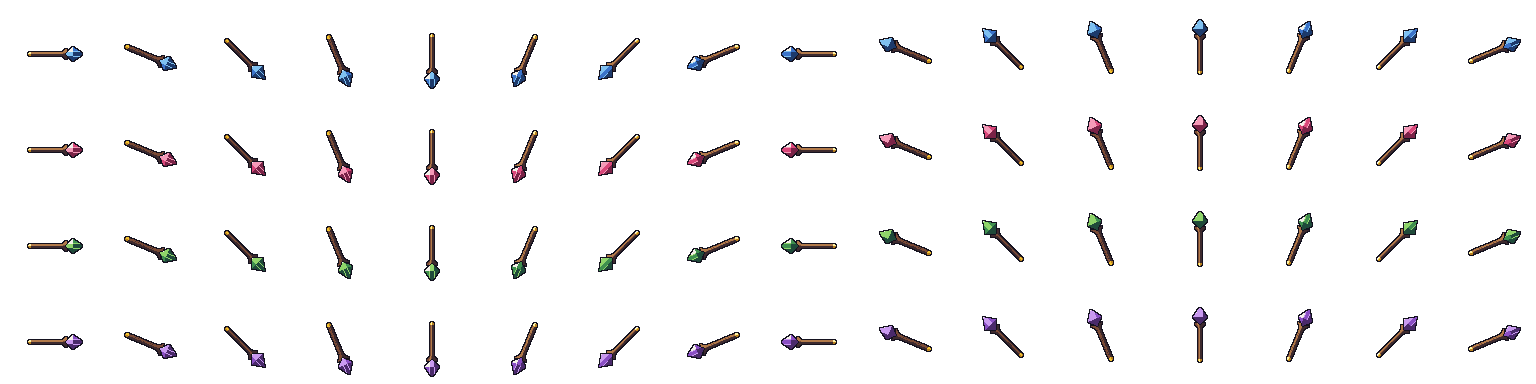
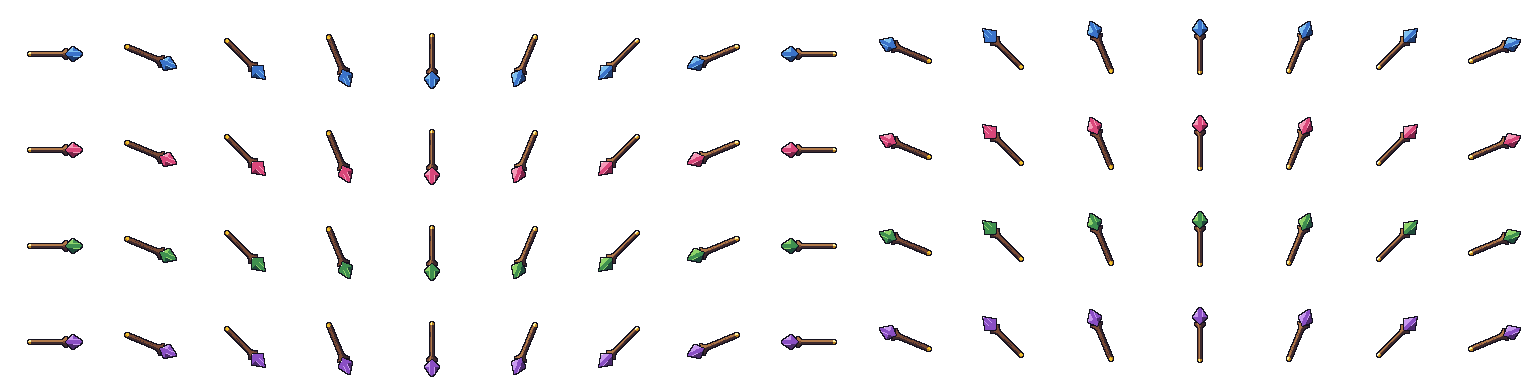
ART1 (1/2): the second review's fixes: the base shade covers the heads, small glints, no Stone shadow
The heads' facets and the moon's ball lean less so the base shade covers most of each head in
every direction, the bottom-right edge a shade down; glints only where _glint puts one; craters
drawn as dishes; a dark seam where gold meets the head; unknown heads refused; the curl's side
rule shared. The detail pass keeps Stone at its base (Stone shadow is the floor's) and has no
folds (none showed; the prompts no longer claim them). Stronger tests: every frame and ramp,
the outline closed eight ways, the base shade most; a staff with a face of its own still worn.

Claude-Session: https://claude.ai/code/session_01Y5yFoBqZXjU1hZsPaXvHir

diff --git a/tools/head_art.py b/tools/head_art.py
@@ -19,8 +19,8 @@ Every shaft is Wood shaded as a round rod, with grain lines along it; gold is Sp
 metal, with a glint. Shapes are worked out at each art pixel's middle in world units (the 48x48
 sheet's layout, grip (24, 27), times DETAIL); a pixel's shade is its surface normal against the
 light from the top-left (three shades a material, the light shade's brightest spots a glint); the
-outline round the outside is one art pixel. Each head keeps its 1x silhouette and size, so its
-`tip` and `butt` hold; the star and the cog stay upright whichever way the staff points, the
+outline round the outside is one art pixel. Each head keeps its 1x shape family and about its size,
+so its `tip` and `butt` hold; the star and the cog stay upright whichever way the staff points, the
 crystal and the moon turn with it (as the 1x sheets).
 
     tools/head_art.py           # writes content/wizard/staffs/<head>/head@2x.png
@@ -54,7 +54,7 @@ _N = math.sqrt(sum(c * c for c in _L))
 LIGHT = (_L[0] / _N, _L[1] / _N, _L[2] / _N)
 # n . LIGHT below SHADOW_BELOW is the shadow shade, above LIGHT_ABOVE the light, above GLINT_ABOVE
 # a glint (on the materials that shine).
-SHADOW_BELOW = 0.45
+SHADOW_BELOW = 0.28
 LIGHT_ABOVE = 0.76
 GLINT_ABOVE = 0.965
 
@@ -91,7 +91,7 @@ class Frame:
         self.way = (math.cos(angle), math.sin(angle))
         # Across: the side facing up (upright, the left), as the curl's.
         across = (self.way[1], -self.way[0])
-        if across[1] > 1e-6 or (abs(across[1]) <= 1e-6 and across[0] > 0.0):
+        if across[1] > 1e-6:
             across = (-across[0], -across[1])
         self.across = across
 
@@ -178,14 +178,14 @@ def crystal(frame: Frame, wx: float, wy: float) -> Hit | None:
             upper = u >= mid
             sv = abs(side) / wide
             # Three facets a side: the face (|v| small) and the two flanks.
-            nu = 0.55 if upper else -0.75
+            nu = 0.5 if upper else -0.35
             if sv < 0.28:
                 nv = 0.0
                 part = 10 if upper else 11
             else:
-                nv = 0.9 if side > 0 else -0.9
+                nv = 1.2 if side > 0 else -1.2
                 part = (12 if side > 0 else 13) + (0 if upper else 2)
-            normal = frame.to_screen(nu, nv, 1.0)
+            normal = frame.to_screen(nu, nv, 2.0)
             # The ridges between facets catch the light: a thin bright line down the face's edges.
             if 0.22 < sv < 0.34 and upper:
                 return (M_HEAD, normal, part, "ridge")
@@ -208,14 +208,17 @@ def moon(frame: Frame, wx: float, wy: float) -> Hit | None:
     if r <= outer and math.hypot(du - push, dv) > inner:
         # Shaded as the ball the crescent is cut from.
         z = math.sqrt(max(0.0, 1.0 - (r / outer) ** 2))
-        normal = frame.to_screen(du / outer, dv / outer, z + 0.1)
+        normal = frame.to_screen(du / outer * 0.6, dv / outer * 0.6, z + 0.55)
         # Craters: shallow dishes, their normals turned in (lit on the far side).
         for cu, cv, cr in ((-1.9, 2.2, 0.9), (-3.0, -0.6, 0.75), (-1.2, -2.6, 0.7)):
             d = math.hypot(du - cu, dv - cv)
             if d <= cr:
                 k = d / cr
-                n = frame.to_screen(-(du - cu) / cr * 1.2, -(dv - cv) / cr * 1.2, 0.5 + 0.3 * (1 - k))
-                return (M_HEAD, n, 21, RAMPS_SHADE[min(_shade_of(n), 1)])
+                # A dish: its wall toward the light in shadow, the far wall's rim lit.
+                to = frame.to_screen(du - cu, dv - cv, 0.0)
+                toward = to[0] * LIGHT[0] + to[1] * LIGHT[1]
+                shade = 0 if toward > 0.1 else (2 if k > 0.6 and toward < -0.3 else 1)
+                return (M_HEAD, normal, 21, RAMPS_SHADE[shade])
         # The cut edge, facing the tip, a shade down: the crescent's inner rim.
         if math.hypot(du - push, dv) <= inner + 0.55:
             return (M_HEAD, frame.to_screen(-(du - push), -dv, 1.4), 22, None)
@@ -244,10 +247,10 @@ def star(frame: Frame, wx: float, wy: float) -> Hit | None:
         sx = 1.0 if dx > 0 else -1.0
         sy = 1.0 if dy > 0 else -1.0
         if ax >= ay:
-            normal = _unit(sx * 0.35, sy * 0.95, 1.0)
+            normal = _unit(sx * 0.2, sy * 0.5, 1.0)
             part = 32 + (0 if sy < 0 else 1) + (0 if sx < 0 else 2)
         else:
-            normal = _unit(sx * 0.95, sy * 0.35, 1.0)
+            normal = _unit(sx * 0.5, sy * 0.2, 1.0)
             part = 36 + (0 if sy < 0 else 1) + (0 if sx < 0 else 2)
         return (M_HEAD, normal, part, None)
     along, side = frame.local(wx, wy)
@@ -317,8 +320,8 @@ def _colour(hit: Hit, ramp: int) -> str:
     if material == M_HEAD:
         if override == "ridge":
             return RAMPS[ramp][2]
-        if level > GLINT_ABOVE:
-            return BONE[2]
+        # No glint from the shading on the head: a bevel facing the light would be a white arc;
+        # `_glint` puts one small one on it.
         return RAMPS[ramp][shade]
     # A hole's lit far wall.
     return RAMPS[ramp][0]
@@ -339,15 +342,25 @@ def head_frame(name: str, direction: int, ramp: int) -> Canvas:
             if hit is None:
                 continue
             canvas.pixels[py][px] = _colour(hit, ramp)
-            # Where the head sits on the wood (or the wood on the gold), the lower part takes a
-            # dark seam, so the parts read apart.
-            if hit[0] == M_WOOD:
+            # Where the head sits on the wood or the gold, the lower part takes a dark seam, so the
+            # parts read apart.
+            if hit[0] in (M_WOOD, M_GOLD):
                 for dx, dy in ((1, 0), (-1, 0), (0, 1), (0, -1)):
                     nx, ny = px + dx, py + dy
                     if 0 <= nx < size and 0 <= ny < size:
                         other = hits[ny][nx]
                         if other is not None and other[0] == M_HEAD:
                             canvas.pixels[py][px] = OUTLINE
+    # The head's edge facing away from the light (bottom right) a shade down where the shading
+    # left it the base, so even a head turned full to the light has its shadow edge.
+    for py in range(size - 1):
+        for px in range(size - 1):
+            hit = hits[py][px]
+            if hit is None or hit[0] != M_HEAD or canvas.pixels[py][px] != RAMPS[ramp][1]:
+                continue
+            right, below = hits[py][px + 1], hits[py + 1][px]
+            if (right is None or right[0] != M_HEAD) and (below is None or below[0] != M_HEAD):
+                canvas.pixels[py][px] = RAMPS[ramp][0]
     _glint(canvas, hits, ramp)
     staff_art._outline(canvas, [[hits[y][x] is not None for x in range(size)] for y in range(size)])
     return canvas
@@ -392,6 +405,9 @@ def main(argv: list[str] | None = None) -> int:
     parser.add_argument("--check", action="store_true", help="write nothing; fail when a sheet differs")
     parser.add_argument("heads", nargs="*", help="only these heads (default: all)")
     args = parser.parse_args(argv)
+    unknown = [name for name in args.heads if name not in HEADS]
+    if unknown:
+        parser.error(f"no such head: {', '.join(unknown)} (the heads: {', '.join(HEADS)})")
     status = 0
     for path, draw in files().items():
         if args.heads and path.parent.name not in args.heads:

diff --git a/tools/test_head_art.py b/tools/test_head_art.py
@@ -19,36 +19,63 @@ class HeadArtTest(unittest.TestCase):
     def test_the_sheets_are_what_the_rules_draw(self) -> None:
         self.assertEqual(head_art.main(["--check"]), 0, "run tools/head_art.py and commit its sheets")
 
-    def test_palette_only_and_the_player_colour_on_the_head_only(self) -> None:
-        palette = pixel_grid.palette()
+    def test_every_frame_palette_only_closed_and_clear_of_the_frame_edge(self) -> None:
+        palette = set(pixel_grid.palette())
         for name in head_art.HEADS:
             for ramp in range(4):
-                frame = head_art.head_frame(name, UP, ramp)
-                colours = {c for row in frame.pixels for c in row} - {None}
-                self.assertTrue(colours <= set(palette), f"{name}: palette colours only")
-                others = {c for r, shades in enumerate(RAMPS) if r != ramp for c in shades}
-                self.assertFalse(colours & others, f"{name}, ramp {ramp}: no other player's colour")
-                self.assertTrue(colours & set(RAMPS[ramp]), f"{name}, ramp {ramp}: its own colour on the head")
+                for direction in range(head_art.DIRECTIONS):
+                    p = head_art.head_frame(name, direction, ramp).pixels
+                    where = f"{name}, direction {direction}, ramp {ramp}"
+                    for y in range(SIZE):
+                        for x in range(SIZE):
+                            colour = p[y][x]
+                            if colour is None:
+                                continue
+                            self.assertIn(colour, palette, where)
+                            self.assertTrue(0 < x < SIZE - 1 and 0 < y < SIZE - 1, f"{where}: clear of the frame's edge")
+                            if colour == OUTLINE:
+                                continue
+                            # Closed eight ways: every drawn pixel's neighbours are drawn.
+                            for dy in (-1, 0, 1):
+                                for dx in (-1, 0, 1):
+                                    self.assertIsNotNone(p[y + dy][x + dx], f"{where}: ({x}, {y}) closed in")
 
-    def test_each_material_shows_three_shades_and_a_glint(self) -> None:
+    def test_the_player_colour_is_on_the_head_only(self) -> None:
         for name in head_art.HEADS:
-            colours = {c for row in head_art.head_frame(name, 14, 0).pixels for c in row}
+            for direction in range(head_art.DIRECTIONS):
+                frame = head_art.Frame(direction)
+                draw = head_art.HEADS[name]
+                for ramp in range(4):
+                    p = head_art.head_frame(name, direction, ramp).pixels
+                    others = {c for r, shades in enumerate(RAMPS) if r != ramp for c in shades}
+                    for y in range(SIZE):
+                        for x in range(SIZE):
+                            if p[y][x] in others:
+                                self.fail(f"{name}: another player's colour")
+                            if p[y][x] in RAMPS[ramp]:
+                                hit = draw(frame, (x + 0.5) / head_art.DETAIL, (y + 0.5) / head_art.DETAIL)
+                                self.assertIn(hit[0] if hit else None, (head_art.M_HEAD, head_art.M_DARK), f"{name}: ramp colour off the head at ({x}, {y})")
+
+    def test_the_base_shade_covers_most_of_the_head(self) -> None:
+        """docs/STYLE.md, "Light and shading": the base shade most, the light and the shadow its edges."""
+        for name in head_art.HEADS:
+            for direction in range(head_art.DIRECTIONS):
+                pixels = [c for row in head_art.head_frame(name, direction, 0).pixels for c in row]
+                shadow, base, light = (pixels.count(c) for c in RAMPS[0])
+                self.assertGreaterEqual(base, max(shadow, light), f"{name}, direction {direction}: {shadow}/{base}/{light}")
+
+    def test_each_material_shows_three_shades_and_a_small_glint(self) -> None:
+        for name in head_art.HEADS:
+            pixels = [c for row in head_art.head_frame(name, 14, 0).pixels for c in row]
+            colours = set(pixels)
             self.assertTrue(set(WOOD) <= colours, f"{name}: the wood in its three shades")
             self.assertTrue(set(RAMPS[0]) <= colours, f"{name}: the head in its three shades")
             self.assertTrue(colours & set(SPARK), f"{name}: gold")
-            self.assertIn(BONE[2], colours, f"{name}: a glint")
+            self.assertTrue(1 <= pixels.count(BONE[2]) <= 8, f"{name}: a glint, a spot not a blob")
 
-    def test_the_outline_is_closed_and_one_art_pixel(self) -> None:
-        for name in head_art.HEADS:
-            frame = head_art.head_frame(name, 2, 1)
-            p = frame.pixels
-            for y in range(SIZE):
-                for x in range(SIZE):
-                    if p[y][x] is None or p[y][x] == OUTLINE:
-                        continue
-                    for dx, dy in ((1, 0), (-1, 0), (0, 1), (0, -1)):
-                        nx, ny = x + dx, y + dy
-                        self.assertTrue(0 <= nx < SIZE and 0 <= ny < SIZE and p[ny][nx] is not None, f"{name}: ({x}, {y}) is closed in")
+    def test_an_unknown_head_is_refused(self) -> None:
+        with self.assertRaises(SystemExit):
+            head_art.main(["--check", "nosuch"])
 
     def test_the_grip_is_on_the_shaft_and_the_head_keeps_its_reach(self) -> None:
         gx, gy = int(head_art.GRIP[0] * head_art.DETAIL), int(head_art.GRIP[1] * head_art.DETAIL)

diff --git a/tools/redraw_2x.py b/tools/redraw_2x.py
@@ -18,7 +18,7 @@ its palette colours and its silhouette, and is drawn finer in two ways:
     tools/redraw_2x.py IN.svg OUT@2x.svg   # an SVG of rects, one a run along a row
     tools/redraw_2x.py IN.svg OUT@2x.png   # an indexed PNG, for a sheet whose rects would pass 1 MB
     tools/redraw_2x.py --blocky IN OUT     # no smoothing: small round shapes (a small face)
-    tools/redraw_2x.py --detail IN OUT     # and new detail: one-pixel edge light and shadow, folds
+    tools/redraw_2x.py --detail IN OUT     # and new detail: one-pixel edge light and shadow
 
 Standard library only. Delete the 1x file after by hand (renaming its `.import`, art/README.md step
 2), so the 2x file is the art from then on: redraw it by hand or with a generator, not by running
@@ -167,17 +167,16 @@ def materials() -> dict[str, tuple[str, int]]:
     return out
 
 
-# Cloth: the materials a robe is made of, which take folds.
-CLOTH = ("Stone",)
-FOLD_EVERY = 6
+# Materials a character never shades down to their shadow (docs/STYLE.md, "Readability": Stone
+# shadow is the floor's), so their edge on the bottom right stays the base.
+NO_SHADOW = ("Stone",)
 
 
 def detail(src: Canvas) -> Canvas:
     """New detail at the 2x picture's own pixels (the owner, 2026-11-26: real detail, not a 2x):
     every part's base shade gets a one-art-pixel lit edge where it meets something else on its top
     or left and a shaded one on its bottom or right (a rounder form than the 1x shading's two-pixel
-    bands), and cloth falls in folds: a shadow crease every FOLD_EVERY art pixels down its lower
-    part, lit on its left. Decided from the picture as it was, all at once."""
+    bands; Stone keeps its base there, NO_SHADOW). Decided from the picture as it was, all at once."""
     shades = materials()
     p = src.pixels
     out = Canvas(src.width, src.height)
@@ -204,12 +203,8 @@ def detail(src: Canvas) -> Canvas:
                 continue
             if material(x - 1, y) != name or material(x, y - 1) != name:
                 out.pixels[y][x] = recolour(colour, 2)
-            elif material(x + 1, y) != name or material(x, y + 1) != name:
+            elif name not in NO_SHADOW and (material(x + 1, y) != name or material(x, y + 1) != name):
                 out.pixels[y][x] = recolour(colour, 0)
-            elif name in CLOTH and x % FOLD_EVERY == 3 and material(x, y - 3) == name and material(x, y - 6) == name:
-                out.pixels[y][x] = recolour(colour, 0)
-            elif name in CLOTH and x % FOLD_EVERY == 2 and material(x + 1, y - 3) == name and material(x + 1, y - 6) == name:
-                out.pixels[y][x] = recolour(colour, 2)
     return out
 
 
@@ -225,7 +220,7 @@ def main(argv: list[str] | None = None) -> int:
     parser.add_argument("source", type=Path)
     parser.add_argument("target", type=Path)
     parser.add_argument("--blocky", action="store_true", help="double without smoothing (small round shapes)")
-    parser.add_argument("--detail", action="store_true", help="add detail at the finer pixels: edge light and shadow, cloth folds")
+    parser.add_argument("--detail", action="store_true", help="add detail at the finer pixels: one-pixel edge light and shadow")
     args = parser.parse_args(argv)
     if "@2x" not in args.target.stem:
         parser.error("the target's name ends in @2x (ArtDetail)")

diff --git a/tools/test_redraw_2x.py b/tools/test_redraw_2x.py
@@ -82,20 +82,34 @@ class Redraw2xTest(unittest.TestCase):
         with self.assertRaises(ValueError):
             redraw_2x.read_svg('<svg width="2" height="2"><rect x="0" y="0" width="1" height="1" fill="#14121f" opacity="0.5"/></svg>')
 
-    def test_the_detail_pass_lights_and_shades_edges_and_folds_cloth(self) -> None:
-        stone = ("#2b2840", "#4a4663", "#7a7694")
-        rows = ["#" * 14] + ["#" + "s" * 12 + "#" for _ in range(12)] + ["#" * 14]
-        colours = {"#": OUTLINE, "s": stone[1]}
+    def _block(self, base: str) -> "redraw_2x.Canvas":
+        rows = ["#" * 8] + ["#" + "s" * 6 + "#" for _ in range(6)] + ["#" * 8]
+        colours = {"#": OUTLINE, "s": base}
         rects = "".join(f'<rect x="{x}" y="{y}" width="1" height="1" fill="{colours[c]}"/>' for y, row in enumerate(rows) for x, c in enumerate(row))
-        src = redraw_2x.read_svg(f'<svg width="14" height="14">{rects}</svg>')
-        out = redraw_2x.redraw(src, smooth=False, detailed=True)
-        inside = [(x, y) for y in range(out.height) for x in range(out.width) if out.pixels[y][x] in stone]
+        return redraw_2x.read_svg(f'<svg width="8" height="8">{rects}</svg>')
+
+    def test_the_detail_pass_lights_and_shades_the_edges_of_the_base_only(self) -> None:
+        wood = ("#3d2a2e", "#7a4a35", "#b27a4a")
+        plain = redraw_2x.redraw(self._block(wood[1]), smooth=False)
+        out = redraw_2x.redraw(self._block(wood[1]), smooth=False, detailed=True)
+        inside = [(x, y) for y in range(out.height) for x in range(out.width) if out.pixels[y][x] in wood]
         top_left = min(inside, key=lambda p: p[0] + p[1])
         bottom_right = max(inside, key=lambda p: p[0] + p[1])
-        self.assertEqual(out.pixels[top_left[1]][top_left[0]], stone[2], "the top-left edge lit")
-        self.assertEqual(out.pixels[bottom_right[1]][bottom_right[0]], stone[0], "the bottom-right edge shaded")
-        folds = [x for x in range(out.width) if out.pixels[out.height - 6][x] == stone[0]]
-        self.assertGreaterEqual(len(folds), 3, "the cloth's lower part falls in folds")
+        self.assertEqual(out.pixels[top_left[1]][top_left[0]], wood[2], "the top-left edge lit")
+        self.assertEqual(out.pixels[bottom_right[1]][bottom_right[0]], wood[0], "the bottom-right edge shaded")
+        middle = (out.width // 2, out.height // 2)
+        self.assertEqual(out.pixels[middle[1]][middle[0]], wood[1], "the middle stays the base")
+        for y in range(out.height):
+            for x in range(out.width):
+                if plain.pixels[y][x] != wood[1]:
+                    self.assertEqual(out.pixels[y][x], plain.pixels[y][x], "only the base shade changes")
+
+    def test_stone_is_never_shaded_down_to_its_shadow(self) -> None:
+        stone = ("#2b2840", "#4a4663", "#7a7694")
+        out = redraw_2x.redraw(self._block(stone[1]), smooth=False, detailed=True)
+        colours = {c for row in out.pixels for c in row}
+        self.assertNotIn(stone[0], colours, "Stone shadow is the floor's (docs/STYLE.md, Readability)")
+        self.assertIn(stone[2], colours, "its lit edge all the same")
 
     def test_a_target_not_named_at_2x_is_refused(self) -> None:
         with self.assertRaises(SystemExit):

diff --git a/tools/staff_art.py b/tools/staff_art.py
@@ -18,7 +18,7 @@ its rects would be over the 1 MB limit):
 - `art/kit/golden_staff@2x.svg`: the golden example at 2x, the three layered as the game does.
 
     tools/staff_art.py           # writes the head sheet and the golden example
-    tools/staff_art.py --check   # fails when an SVG differs from what the rules draw
+    tools/staff_art.py --check   # fails when a file differs from what the rules draw
 
 Shapes are worked out at each pixel's middle, in world units times DETAIL; a shape's light and
 shadow come from its edges facing the top left and the bottom right; every outline is one art

diff --git a/tools/README.md b/tools/README.md
@@ -2,7 +2,7 @@
 
 ## Purpose
 
-Scripts that contributors and Claude run on their own checkout. `tools/check.sh` runs the same hard rules as the `rules` check in CI on your changes, so you can fix problems before you open a PR. `tools/atlas.py <out>` writes the Spell atlas data (`atlas.json`: one entry per component, combo and reaction, read from `content/`; `build.sh --clips` calls it, and `ci/smbot/clips.py` has the format); its tests are `tools/test_atlas.py` (`python3 -m unittest discover -s tools`). `tools/staff_art.py` draws the curl staff at 2x detail (ART0, the pilot of the 64x64 redraw; art/README.md, "Redrawing a sprite at 64x64"): its head sheet (16 drawn directions by 4 ramps, 96x96 frames), the Optimist's eyes and brows (32x16 frames, drawn into the shared face by `face_art.py`) and the golden example `art/kit/golden_staff@2x.svg`, from shape rules (palette colours, read from docs/STYLE.md; the SVGs rects only, the head sheet a PNG, which as rects would be over the 1 MB limit); `--check` writes nothing and fails when an SVG differs from what the rules draw; its tests are `tools/test_staff_art.py`. `tools/face_art.py` draws the shared face sheets at 2x detail the same way (ART1: `art/faces/eyes@2x.svg`, a row a face style, and `brows@2x.svg`, 32x16 frames; the Optimist's row is staff_art.py's), with the same `--check`; `tools/head_art.py` draws the other staff heads at 2x detail from shape and light rules (crystal facets, the moon's craters, the star's bevels, the cog's rim, holes and hub, wood grain and gold glints; ART1), with the same `--check`; `tools/redraw_2x.py IN.svg OUT@2x.(svg|png)` redraws a 1x sheet of rects at 2x detail once, its layout and silhouette kept (the intro's wizard): its diagonals smoothed by the EPX rule and its outside outline one art pixel (`--blocky`: doubled without smoothing, for small round shapes; `--detail`: new detail at the finer pixels, one-pixel edge light and shadow and cloth folds), after which the 2x file is the art. Their tests are `tools/test_face_art.py`, `tools/test_head_art.py` and `tools/test_redraw_2x.py`. `tools/pixel_grid.py <name>.grid.json...` draws pixel art from a grid of characters (props W7, docs/milestones/props.md): a grid file, kept beside its art, names a palette colour for each character (docs/STYLE.md's palette, read from there) and the mote-point characters (`*` by default), and it writes `<name>.svg` (rects only, one a run of a colour along a row, as tests/core/test_svg_art.gd wants) and, when the grid has mote points, `<name>_motes.svg` (the points alone, a mask for a prop's look to give off motes from), so a prop's art and where its motes come from are one source; `--check` writes nothing and fails when an SVG differs from its grid. Its tests are `tools/test_pixel_grid.py`, which also checks every grid in the repository against its SVGs. `tools/ptest.sh [jobs] [path-regex]` runs the Godot unit tests in parallel (one import, a user folder per test), about a minute for the whole suite; it needs the pinned Godot that `ci/build/build.sh --quick` downloads. It prints each failed file with the lines of its log that say why (`tools/ptest_failures.py`: the runner's note on a file that failed only in its batch, with a crash's or a timeout's exit code, the failed checks and the engine's errors), since a cloud session's logs go with its machine; its tests are `tools/test_ptest_failures.py`. `tools/platform_hashes.py run` is online-ready's first look across platforms (N2b, docs/milestones/online-ready.md): it exports Linux Test, Windows Test and Web Test into `build/`, plays the same recorded runs in each (`--replay-hashes`, tests/platforms/replay_hashes_runner.gd: Linux headless, Windows through WSL's interop, the web in headless Chromium through `smbot.websmoke`) and names the first tick, area and members where a platform parts from Linux; `play NAME --build DIR` plays one export already built (`linux`, `linux-gdscript`, `windows` or `web`; the daily run's `platforms` job plays each on its own runner, Windows on a Windows runner) and `compare LOG...` compares saved logs with the first, giving each parting area's two hashes. A run also says what its export was built with (`REPLAY BUILD`): an export whose WebRTC extension is missing or did not load is reported on its own, apart from the hashes (the one check of the Windows build's; `run` sets the extension up with `ci/build/webrtc.sh` before it exports). It writes only under `build/` (and a copy of the Windows export under %TEMP%), needs one `build.sh --quick` and, for Windows, WSL; its tests are `tools/test_platform_hashes.py`. `tools/online_pair.sh [ticks]` plays the real game twice on this machine (netcode spike S4): two headless processes go through Host and Join over WebRTC with no STUN server, their codes handed over as files under a `user://` of their own (`build/logs/online/`), play the hub with both seats scripted (`tests/net/online_runner.gd`), and it passes when every hash check agreed; about fifteen seconds for the default 600 ticks. `tools/online_signal.sh` runs the room server's own tests (`node --test` in `server/signal/`), then starts the server on this machine (`local.js`, Node alone) and plays the game's real handshake through it; `tools/online_room.sh [ticks]` plays the real game twice through a room on that server (online lobby L2: Play, the altar, the code, two players a machine, the stone, a run) and passes when every hash check agreed. `tools/online_party.sh [ticks]` does the same with four processes, a host and three guest machines of one player each (L3). All three need Node 22 or later. `tools/ground_shape.py <shape file>...` draws a room's ground from its shape file (hub rework HR2, docs/milestones/hub-rework.md; content/rooms/README.md, "A room's ground from a shape"): the room's `<room>_ground.tscn` beside the shape and its art in `art/grounds/<room>/`, from the shape's outlines or frame, pits, cracks and areas (a material's colours drawn by `ground_materials.py`, a wall's top and face by `ground_walls.py`, both used only by it; crypt rework CR2, docs/milestones/crypt-rework.md), its edge style (content/edges) and ground materials (content/grounds), the same files every time; `--check` writes nothing and fails when a room's ground is older than what it is drawn from. Standard library only (it writes its PNGs itself); about ten seconds for the hub. Its tests are `tools/test_ground_shape.py`, which also checks every shape file's ground is up to date (drawing every room again, in parallel, a process a core: about 30 seconds on 4 cores; keep the generator's hot loops cheap, as the CI job that runs these tests has 5 minutes). **The game draws the same ground** as a room is laid out (connected biomes CB4): `gameplay/feel/ground/` is this generator's drawing in GDScript, line by line, and `native/src/ground_kernel.cpp` its native twin, so a change to `ground_shape.py`, `ground_materials.py` or `ground_walls.py` is made in both in the same PR (a speed-up that draws the very same bytes, such as the Python's caches, need not be); `tests/gameplay/feel/test_ground_drawing.gd` fails while the game's drawing of a room is not its baked art to the pixel. A length is `length_of` (the square root of the sum of the squares), never `math.hypot` or `math.dist`, which round otherwise now and then.
+Scripts that contributors and Claude run on their own checkout. `tools/check.sh` runs the same hard rules as the `rules` check in CI on your changes, so you can fix problems before you open a PR. `tools/atlas.py <out>` writes the Spell atlas data (`atlas.json`: one entry per component, combo and reaction, read from `content/`; `build.sh --clips` calls it, and `ci/smbot/clips.py` has the format); its tests are `tools/test_atlas.py` (`python3 -m unittest discover -s tools`). `tools/staff_art.py` draws the curl staff at 2x detail (ART0, the pilot of the 64x64 redraw; art/README.md, "Redrawing a sprite at 64x64"): its head sheet (16 drawn directions by 4 ramps, 96x96 frames), the Optimist's eyes and brows (32x16 frames, drawn into the shared face by `face_art.py`) and the golden example `art/kit/golden_staff@2x.svg`, from shape rules (palette colours, read from docs/STYLE.md; the SVGs rects only, the head sheet a PNG, which as rects would be over the 1 MB limit); `--check` writes nothing and fails when a file differs from what the rules draw; its tests are `tools/test_staff_art.py`. `tools/face_art.py` draws the shared face sheets at 2x detail the same way (ART1: `art/faces/eyes@2x.svg`, a row a face style, and `brows@2x.svg`, 32x16 frames; the Optimist's row is staff_art.py's), with the same `--check`; `tools/head_art.py` draws the other staff heads at 2x detail from shape and light rules (crystal facets, the moon's craters, the star's bevels, the cog's rim, holes and hub, wood grain and gold glints; ART1), with the same `--check`; `tools/redraw_2x.py IN.svg OUT@2x.(svg|png)` redraws a 1x sheet of rects at 2x detail once, its layout and silhouette kept (the intro's wizard): its diagonals smoothed by the EPX rule and its outside outline one art pixel (`--blocky`: doubled without smoothing, for small round shapes; `--detail`: new detail at the finer pixels, one-pixel edge light and shadow), after which the 2x file is the art. Their tests are `tools/test_face_art.py`, `tools/test_head_art.py` and `tools/test_redraw_2x.py`. `tools/pixel_grid.py <name>.grid.json...` draws pixel art from a grid of characters (props W7, docs/milestones/props.md): a grid file, kept beside its art, names a palette colour for each character (docs/STYLE.md's palette, read from there) and the mote-point characters (`*` by default), and it writes `<name>.svg` (rects only, one a run of a colour along a row, as tests/core/test_svg_art.gd wants) and, when the grid has mote points, `<name>_motes.svg` (the points alone, a mask for a prop's look to give off motes from), so a prop's art and where its motes come from are one source; `--check` writes nothing and fails when an SVG differs from its grid. Its tests are `tools/test_pixel_grid.py`, which also checks every grid in the repository against its SVGs. `tools/ptest.sh [jobs] [path-regex]` runs the Godot unit tests in parallel (one import, a user folder per test), about a minute for the whole suite; it needs the pinned Godot that `ci/build/build.sh --quick` downloads. It prints each failed file with the lines of its log that say why (`tools/ptest_failures.py`: the runner's note on a file that failed only in its batch, with a crash's or a timeout's exit code, the failed checks and the engine's errors), since a cloud session's logs go with its machine; its tests are `tools/test_ptest_failures.py`. `tools/platform_hashes.py run` is online-ready's first look across platforms (N2b, docs/milestones/online-ready.md): it exports Linux Test, Windows Test and Web Test into `build/`, plays the same recorded runs in each (`--replay-hashes`, tests/platforms/replay_hashes_runner.gd: Linux headless, Windows through WSL's interop, the web in headless Chromium through `smbot.websmoke`) and names the first tick, area and members where a platform parts from Linux; `play NAME --build DIR` plays one export already built (`linux`, `linux-gdscript`, `windows` or `web`; the daily run's `platforms` job plays each on its own runner, Windows on a Windows runner) and `compare LOG...` compares saved logs with the first, giving each parting area's two hashes. A run also says what its export was built with (`REPLAY BUILD`): an export whose WebRTC extension is missing or did not load is reported on its own, apart from the hashes (the one check of the Windows build's; `run` sets the extension up with `ci/build/webrtc.sh` before it exports). It writes only under `build/` (and a copy of the Windows export under %TEMP%), needs one `build.sh --quick` and, for Windows, WSL; its tests are `tools/test_platform_hashes.py`. `tools/online_pair.sh [ticks]` plays the real game twice on this machine (netcode spike S4): two headless processes go through Host and Join over WebRTC with no STUN server, their codes handed over as files under a `user://` of their own (`build/logs/online/`), play the hub with both seats scripted (`tests/net/online_runner.gd`), and it passes when every hash check agreed; about fifteen seconds for the default 600 ticks. `tools/online_signal.sh` runs the room server's own tests (`node --test` in `server/signal/`), then starts the server on this machine (`local.js`, Node alone) and plays the game's real handshake through it; `tools/online_room.sh [ticks]` plays the real game twice through a room on that server (online lobby L2: Play, the altar, the code, two players a machine, the stone, a run) and passes when every hash check agreed. `tools/online_party.sh [ticks]` does the same with four processes, a host and three guest machines of one player each (L3). All three need Node 22 or later. `tools/ground_shape.py <shape file>...` draws a room's ground from its shape file (hub rework HR2, docs/milestones/hub-rework.md; content/rooms/README.md, "A room's ground from a shape"): the room's `<room>_ground.tscn` beside the shape and its art in `art/grounds/<room>/`, from the shape's outlines or frame, pits, cracks and areas (a material's colours drawn by `ground_materials.py`, a wall's top and face by `ground_walls.py`, both used only by it; crypt rework CR2, docs/milestones/crypt-rework.md), its edge style (content/edges) and ground materials (content/grounds), the same files every time; `--check` writes nothing and fails when a room's ground is older than what it is drawn from. Standard library only (it writes its PNGs itself); about ten seconds for the hub. Its tests are `tools/test_ground_shape.py`, which also checks every shape file's ground is up to date (drawing every room again, in parallel, a process a core: about 30 seconds on 4 cores; keep the generator's hot loops cheap, as the CI job that runs these tests has 5 minutes). **The game draws the same ground** as a room is laid out (connected biomes CB4): `gameplay/feel/ground/` is this generator's drawing in GDScript, line by line, and `native/src/ground_kernel.cpp` its native twin, so a change to `ground_shape.py`, `ground_materials.py` or `ground_walls.py` is made in both in the same PR (a speed-up that draws the very same bytes, such as the Python's caches, need not be); `tests/gameplay/feel/test_ground_drawing.gd` fails while the game's drawing of a room is not its baked art to the pixel. A length is `length_of` (the square root of the sum of the squares), never `math.hypot` or `math.dist`, which round otherwise now and then.
 
 **The sound tools** (sound plan AU2, docs/milestones/sound.md): `tools/sound.py bake [recipe or id ...]` bakes sound recipes into `.ogg` files (every recipe when none is named). A recipe is `<id>.sound.json` in a folder of its own named `<id>` (`audio/sfx/<id>/`, or a content item's `sounds/<id>/`), and names shared instruments in `audio/patches/<name>.patch.json`. The synth, `sound_synth.py` (sources, envelopes, filters, drive, crush, reverb; standard library only), renders each variant; the bake places its loudness on its family's target and checks its true peak and its top (how loud its part above 2 kHz is, against the family's ceiling, or the recipe's own `top`) (`sound_meter.py`, BS.1770; the families' numbers are read from docs/STYLE.md, "Sound"), then writes in the recipe's folder only: `variants/1.ogg` ... and `<id>.tres` (an `AudioStreamRandomizer` with the family's jitter) for a one-shot, or `<id>.ogg` and its `.import` with `loop=true` for a held loop, and the folder's `assets.json` (an entry a file, with the recipe's hash, loudness and peak). A file whose audio is the same (its 16-bit samples' hash, `audio_hash`, so another encoder rewrites nothing) is not rewritten, and an existing `.import` never is; changing a sound's kind removes the files of its old kind; Godot's import (the pinned Godot, or `$GODOT`) then completes the new `.import` files. `tools/sound.py sheet <recipes, ids or a family> --out DIR` writes a contact sheet outside the repository (`sheet.ogg`, and `sheet.mp4` with the same audio over a card of the ids, for a PR): each sound's variants in turn, four of it at once, then all of them together. `tools/sound.py check` reads no audio: every recipe validates, every file it makes is there with a current `recipe_hash`, and no `.ogg` lacks a recipe unless its manifest entry is `origin: human` (`UNRECIPED`, the list of files made before the tool, is empty since AU6 remade the ambience, and stays so). **Music** is a score, `<track>.score.json` in a folder of its own under `audio/` (`audio/music/<track>/`): `sound_score.py`, the sequencer, renders its layers (instruments from the patches, one-bar patterns of notes, chords `D3+F3+A3`, hits `x`, rests `.` and holds `-`), each exactly `bars × beats × 60 / tempo` seconds and seamless round its end; the bake places all of a track's layers by one scale on the music target and writes `<layer id>.ogg` a layer (with a `loop=true` `.import`) and the folder's `assets.json`; `bake`, `sheet` and `check` take scores as recipes (by path, track or layer id, or `music`), and the sheet plays a track's intensities in turn. Its tests: `test_sound_score.py` (the validator, one length, the seam, the placing, the bake and a fingerprint of the sequencer's sound: `VERSION` in `sound_score.py` is raised as `GENERATOR` is). Its other tests: `test_sound_synth.py` (the three samples the owner chose, as recipes, and the validator), `test_sound_meter.py` (reference tones), `test_sound_bake.py` (the bake, manifest and sheet), `test_sound_golden.py` (a fingerprint a source and shaper: a change to the synth's sound fails it until `GENERATOR` is raised) and `test_sound_hashes.py` (the check, on the repository); about 25 seconds in all.
 

diff --git a/art/README.md b/art/README.md
@@ -75,7 +75,7 @@ The owner's decision of 2026-11-21 (confirmed 2026-11-25; docs/STYLE.md, "The pi
 
 **Drawn by a shader** (the flat floor states, `gameplay/feel/cover_flat.gdshader`): no file to rename; raise `CoverFlat.DETAIL` to `ArtDetail.DETAIL` and the shader works its shapes out in art pixels at twice the resolution (edges, corners, insets, glints whole art pixels), then retune its looks.
 
-A generator may draw it (palette colours; an SVG of rects, one a run along a row, as `tests/core/test_svg_art.gd` wants, or a PNG when the rects would pass the 1 MB limit: the curl's head sheet): `tools/staff_art.py` draws the curl's head at 16 drawn directions and its face from shape rules, `tools/face_art.py` the shared face sheets, `tools/head_art.py` the other staff heads from shape and light rules, `tools/redraw_2x.py` redraws a 1x sheet of rects at 2x once (its diagonals smoothed, its outside outline one art pixel, and with `--detail` edge light and shadow and cloth folds at the finer pixels; the intro's wizard), to touch up by hand after, `tools/pixel_grid.py` draws from a grid of characters at any size.
+A generator may draw it (palette colours; an SVG of rects, one a run along a row, as `tests/core/test_svg_art.gd` wants, or a PNG when the rects would pass the 1 MB limit: the curl's head sheet): `tools/staff_art.py` draws the curl's head at 16 drawn directions and its face from shape rules, `tools/face_art.py` the shared face sheets, `tools/head_art.py` the other staff heads from shape and light rules, `tools/redraw_2x.py` redraws a 1x sheet of rects at 2x once (its diagonals smoothed, its outside outline one art pixel, and with `--detail` one-pixel edge light and shadow at the finer pixels; the intro's wizard), to touch up by hand after, `tools/pixel_grid.py` draws from a grid of characters at any size.
 
 ## Review questions
 
